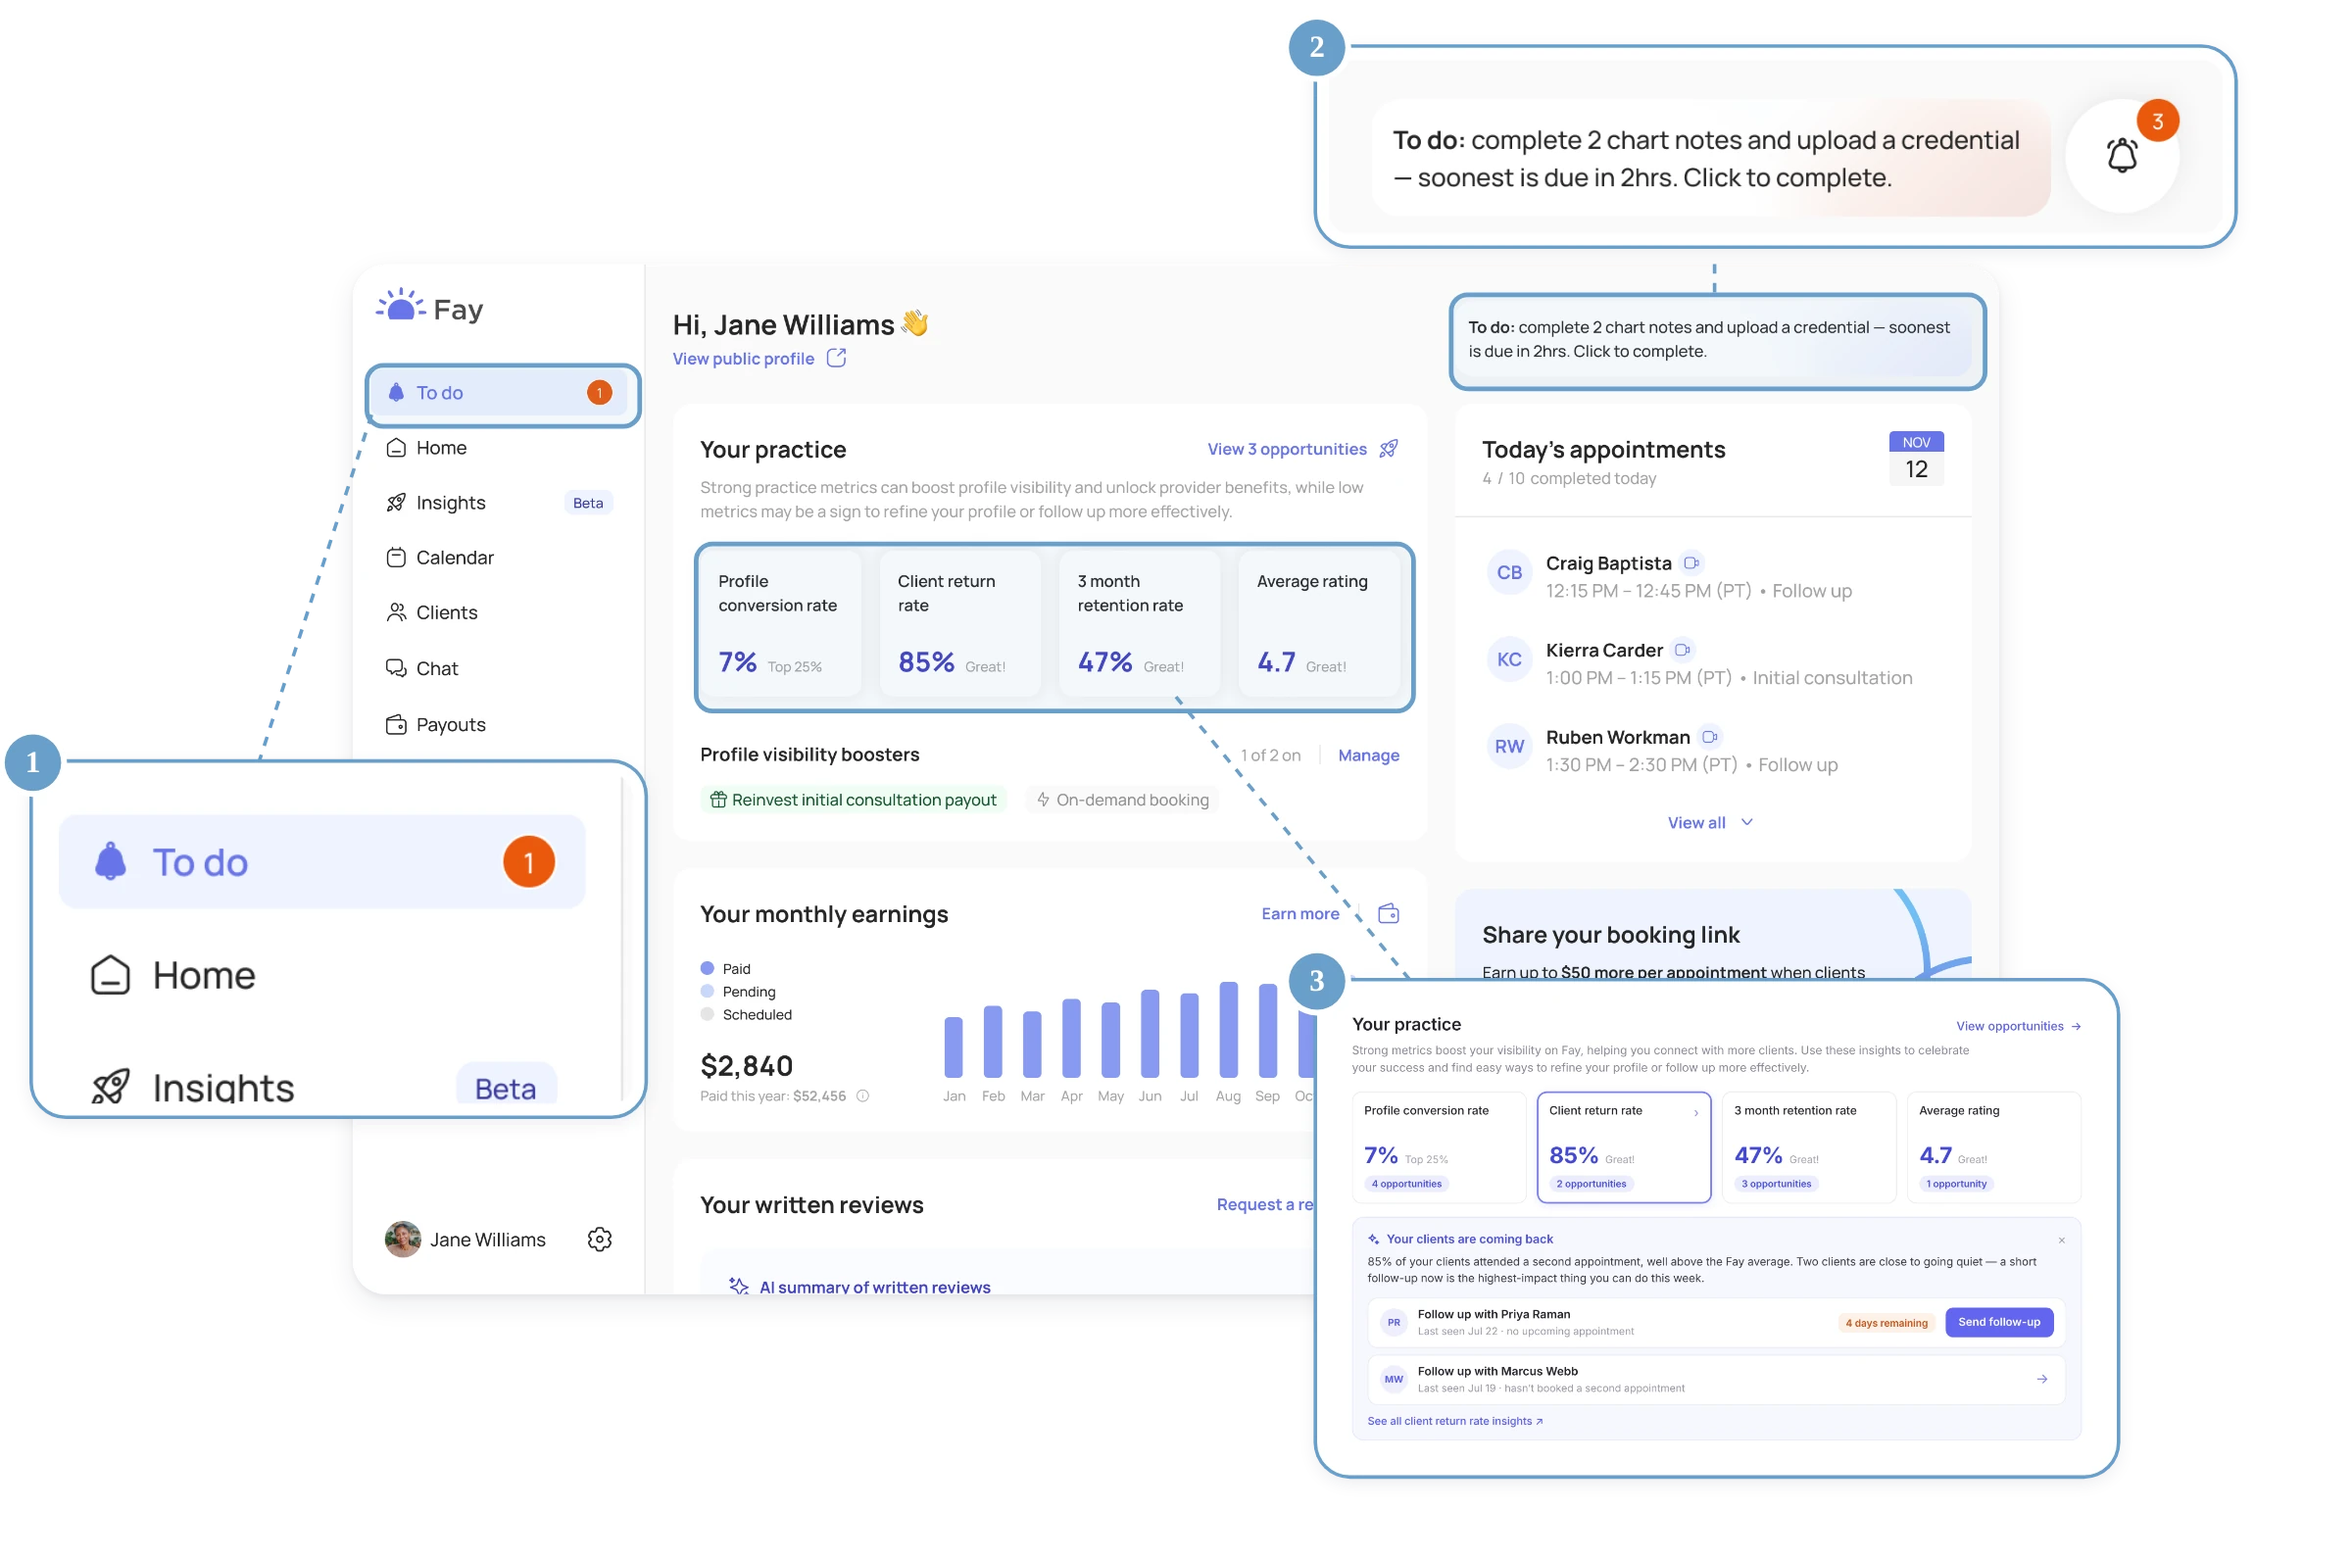
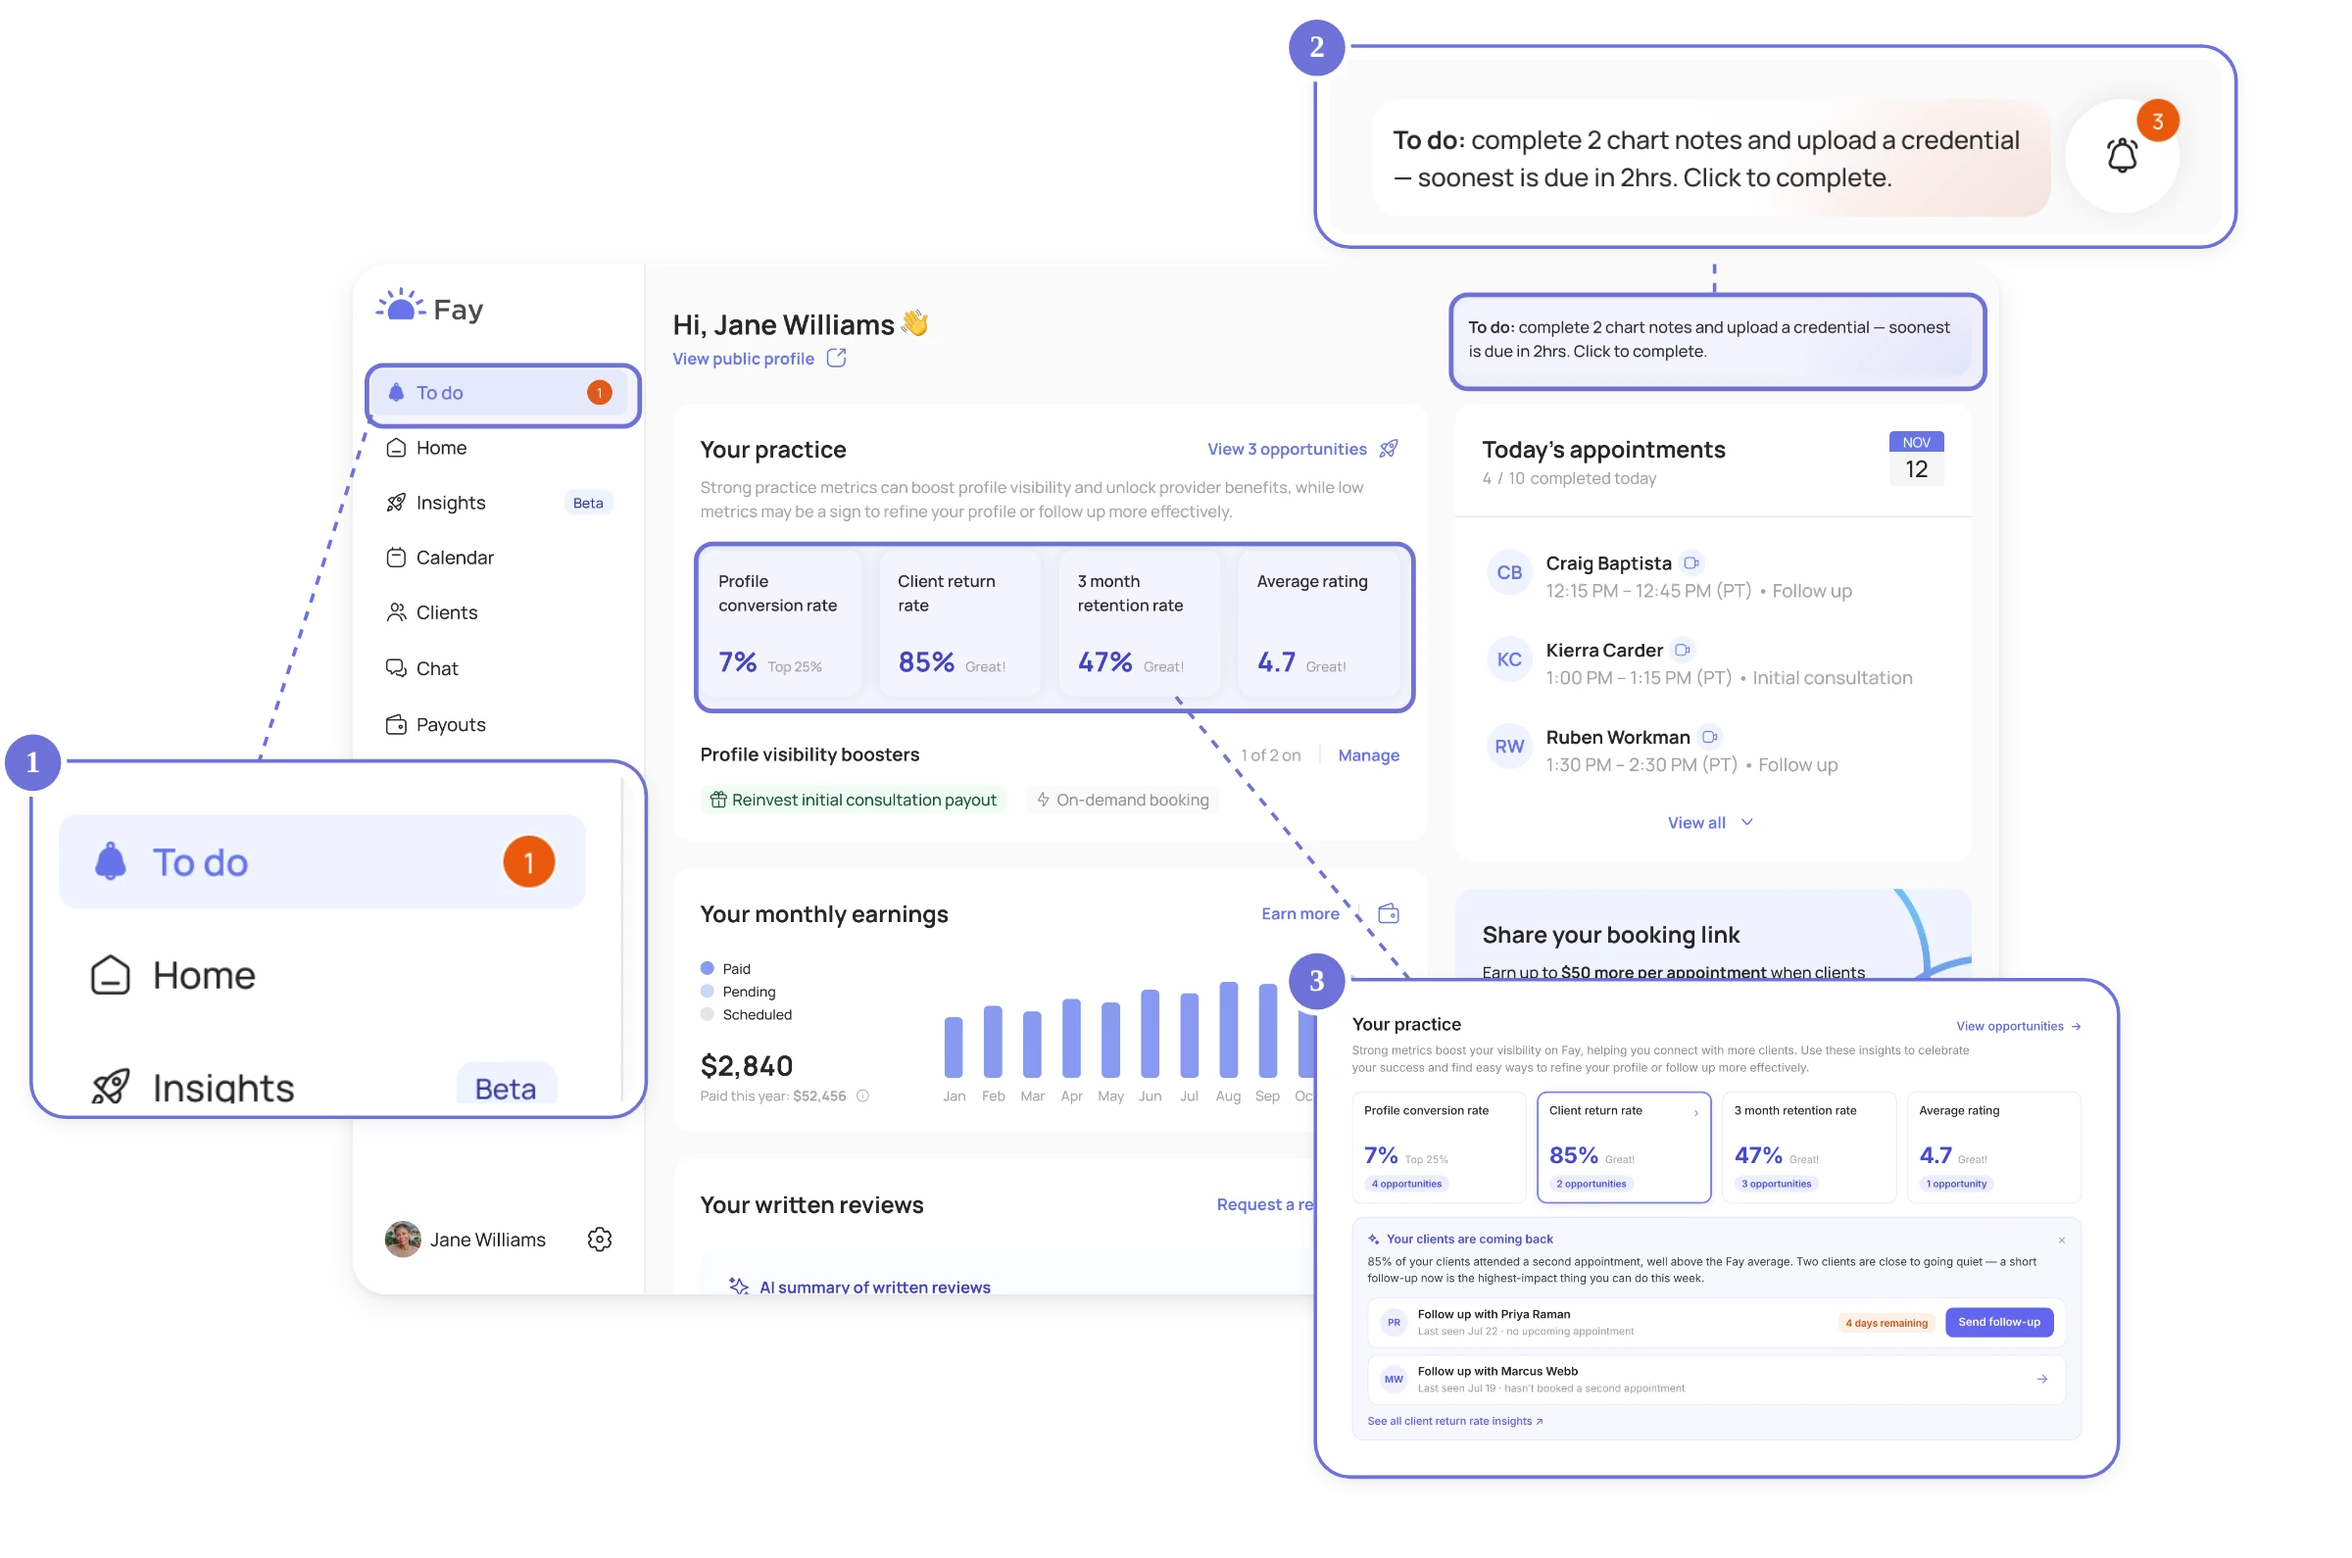
Provider: nav purple map, palette-only colours, dark mode note
Claude-Session: https://claude.ai/code/session_01C6Fxqm64jisWK6jZ32hbMF

diff --git a/provider.html b/provider.html
@@ -821,9 +821,10 @@ html.gal-open{overflow:hidden}
 .tbl-ic{width:32px;height:32px;flex:none;color:var(--ink)}   /* from the interface marks: Data and Poise */
 .td-ship{position:relative}
 .td-note{margin:var(--s-4) 0 0;max-width:22em;font-size:var(--fs-small);line-height:1.45;color:var(--ink-2)}
-.td-note b{display:block;font-weight:600;color:#1F6B3A}
-@media (min-width:1024px){ .td-note{position:absolute;right:var(--s-5);bottom:16%;margin:0;max-width:13em;padding:var(--s-3) var(--s-4);border-radius:14px;background:rgba(255,255,255,.82);-webkit-backdrop-filter:blur(10px);backdrop-filter:blur(10px);box-shadow:0 6px 20px rgba(40,60,120,.14)}
-  .td-note::before{content:"";position:absolute;right:100%;top:50%;width:var(--s-6);border-top:1.5px dashed #2E8A55} }
+.td-note b{display:block;font-weight:600;color:var(--ink)}
+@media (min-width:1024px){ .td-note{position:absolute;right:var(--s-5);bottom:16%;margin:0;max-width:13em;padding:var(--s-3) var(--s-4);border-radius:14px;background:rgba(255,255,255,.82);-webkit-backdrop-filter:blur(10px);backdrop-filter:blur(10px);box-shadow:0 6px 20px rgba(40,60,120,.14);color:#5D5970}
+  .td-note b{color:#17151F}   /* on its own white card, so the light-mode inks in both modes */
+  .td-note::before{content:"";position:absolute;right:100%;top:50%;width:var(--s-6);border-top:1.5px dashed var(--accent)} }
 .td-vid{padding:var(--s-5)}
 .td-vid video{display:block;width:100%;height:auto;border-radius:12px;box-shadow:0 1px 2px rgba(23,21,31,.06),0 10px 26px rgba(40,60,120,.18)}
 .fs-card{display:block;width:min(100%, 460px);flex:0 1 460px}   /* the card carries its own soft shadow */
@@ -832,7 +833,7 @@ html.gal-open{overflow:hidden}
 .it-map.lq,.fs-card img.lq{background:none!important}   /* cut-outs: no blurred loading preview behind their transparent parts */
 .it-key{margin:var(--s-4) 0 0;padding:0;list-style:none;counter-reset:k;display:flex;flex-wrap:wrap;gap:var(--s-2) var(--s-5);font-size:var(--fs-small);color:#5D5970}
 .it-key li{counter-increment:k;display:flex;align-items:center;gap:.5em}
-.it-key li::before{content:counter(k);display:inline-grid;place-items:center;width:1.6em;height:1.6em;border-radius:50%;background:#699FCB;color:#fff;font-size:.85em;font-weight:600}
+.it-key li::before{content:counter(k);display:inline-grid;place-items:center;width:1.6em;height:1.6em;border-radius:50%;background:#6F72D9;color:#fff;font-size:.85em;font-weight:600}
 .it{margin:0;display:flex;flex-direction:column;gap:var(--s-3)}
 .cs-gap{height:var(--s-5)}
 .st-pair{display:grid;grid-template-columns:minmax(0,1fr);gap:var(--s-5)}
@@ -1001,7 +1002,7 @@ html.gal-open{overflow:hidden}
         <h2 id="s6">I lobbied for a To-dos center, not one more to-do</h2>
         <div class="cs-body"><p>One to-do would have been the first of many: a license project had asked for a one-time modal, and expiring insurance needed a reminder too. So I lobbied to build To-dos as a whole, with a definition backed by the data. A to-do is required, with a deadline that affects care or claims, like a chart note before it locks, license details before removal or expiring insurance; it’s orange. An opportunity is a helpful next step that can wait or be dismissed, like following up with a client; it’s green.</p><p>Then I explored where they should live: as a page in the sidebar, as a line beside the bell, and right under the practice metric an opportunity could improve, like a follow-up beside client return rate.</p></div>
       </div>
[2 lines of base64/hex data omitted]
     </section>
     <section class="cs-sec grid" aria-labelledby="s7">
       <p class="cs-kicker">07<i class="dot"></i>What shipped</p>

diff --git a/goals.html b/goals.html
@@ -821,9 +821,10 @@ html.gal-open{overflow:hidden}
 .tbl-ic{width:32px;height:32px;flex:none;color:var(--ink)}   /* from the interface marks: Data and Poise */
 .td-ship{position:relative}
 .td-note{margin:var(--s-4) 0 0;max-width:22em;font-size:var(--fs-small);line-height:1.45;color:var(--ink-2)}
-.td-note b{display:block;font-weight:600;color:#1F6B3A}
-@media (min-width:1024px){ .td-note{position:absolute;right:var(--s-5);bottom:16%;margin:0;max-width:13em;padding:var(--s-3) var(--s-4);border-radius:14px;background:rgba(255,255,255,.82);-webkit-backdrop-filter:blur(10px);backdrop-filter:blur(10px);box-shadow:0 6px 20px rgba(40,60,120,.14)}
-  .td-note::before{content:"";position:absolute;right:100%;top:50%;width:var(--s-6);border-top:1.5px dashed #2E8A55} }
+.td-note b{display:block;font-weight:600;color:var(--ink)}
+@media (min-width:1024px){ .td-note{position:absolute;right:var(--s-5);bottom:16%;margin:0;max-width:13em;padding:var(--s-3) var(--s-4);border-radius:14px;background:rgba(255,255,255,.82);-webkit-backdrop-filter:blur(10px);backdrop-filter:blur(10px);box-shadow:0 6px 20px rgba(40,60,120,.14);color:#5D5970}
+  .td-note b{color:#17151F}   /* on its own white card, so the light-mode inks in both modes */
+  .td-note::before{content:"";position:absolute;right:100%;top:50%;width:var(--s-6);border-top:1.5px dashed var(--accent)} }
 .td-vid{padding:var(--s-5)}
 .td-vid video{display:block;width:100%;height:auto;border-radius:12px;box-shadow:0 1px 2px rgba(23,21,31,.06),0 10px 26px rgba(40,60,120,.18)}
 .fs-card{display:block;width:min(100%, 460px);flex:0 1 460px}   /* the card carries its own soft shadow */
@@ -832,7 +833,7 @@ html.gal-open{overflow:hidden}
 .it-map.lq,.fs-card img.lq{background:none!important}   /* cut-outs: no blurred loading preview behind their transparent parts */
 .it-key{margin:var(--s-4) 0 0;padding:0;list-style:none;counter-reset:k;display:flex;flex-wrap:wrap;gap:var(--s-2) var(--s-5);font-size:var(--fs-small);color:#5D5970}
 .it-key li{counter-increment:k;display:flex;align-items:center;gap:.5em}
-.it-key li::before{content:counter(k);display:inline-grid;place-items:center;width:1.6em;height:1.6em;border-radius:50%;background:#699FCB;color:#fff;font-size:.85em;font-weight:600}
+.it-key li::before{content:counter(k);display:inline-grid;place-items:center;width:1.6em;height:1.6em;border-radius:50%;background:#6F72D9;color:#fff;font-size:.85em;font-weight:600}
 .it{margin:0;display:flex;flex-direction:column;gap:var(--s-3)}
 .cs-gap{height:var(--s-5)}
 .st-pair{display:grid;grid-template-columns:minmax(0,1fr);gap:var(--s-5)}

diff --git a/monument.html b/monument.html
@@ -821,9 +821,10 @@ html.gal-open{overflow:hidden}
 .tbl-ic{width:32px;height:32px;flex:none;color:var(--ink)}   /* from the interface marks: Data and Poise */
 .td-ship{position:relative}
 .td-note{margin:var(--s-4) 0 0;max-width:22em;font-size:var(--fs-small);line-height:1.45;color:var(--ink-2)}
-.td-note b{display:block;font-weight:600;color:#1F6B3A}
-@media (min-width:1024px){ .td-note{position:absolute;right:var(--s-5);bottom:16%;margin:0;max-width:13em;padding:var(--s-3) var(--s-4);border-radius:14px;background:rgba(255,255,255,.82);-webkit-backdrop-filter:blur(10px);backdrop-filter:blur(10px);box-shadow:0 6px 20px rgba(40,60,120,.14)}
-  .td-note::before{content:"";position:absolute;right:100%;top:50%;width:var(--s-6);border-top:1.5px dashed #2E8A55} }
+.td-note b{display:block;font-weight:600;color:var(--ink)}
+@media (min-width:1024px){ .td-note{position:absolute;right:var(--s-5);bottom:16%;margin:0;max-width:13em;padding:var(--s-3) var(--s-4);border-radius:14px;background:rgba(255,255,255,.82);-webkit-backdrop-filter:blur(10px);backdrop-filter:blur(10px);box-shadow:0 6px 20px rgba(40,60,120,.14);color:#5D5970}
+  .td-note b{color:#17151F}   /* on its own white card, so the light-mode inks in both modes */
+  .td-note::before{content:"";position:absolute;right:100%;top:50%;width:var(--s-6);border-top:1.5px dashed var(--accent)} }
 .td-vid{padding:var(--s-5)}
 .td-vid video{display:block;width:100%;height:auto;border-radius:12px;box-shadow:0 1px 2px rgba(23,21,31,.06),0 10px 26px rgba(40,60,120,.18)}
 .fs-card{display:block;width:min(100%, 460px);flex:0 1 460px}   /* the card carries its own soft shadow */
@@ -832,7 +833,7 @@ html.gal-open{overflow:hidden}
 .it-map.lq,.fs-card img.lq{background:none!important}   /* cut-outs: no blurred loading preview behind their transparent parts */
 .it-key{margin:var(--s-4) 0 0;padding:0;list-style:none;counter-reset:k;display:flex;flex-wrap:wrap;gap:var(--s-2) var(--s-5);font-size:var(--fs-small);color:#5D5970}
 .it-key li{counter-increment:k;display:flex;align-items:center;gap:.5em}
-.it-key li::before{content:counter(k);display:inline-grid;place-items:center;width:1.6em;height:1.6em;border-radius:50%;background:#699FCB;color:#fff;font-size:.85em;font-weight:600}
+.it-key li::before{content:counter(k);display:inline-grid;place-items:center;width:1.6em;height:1.6em;border-radius:50%;background:#6F72D9;color:#fff;font-size:.85em;font-weight:600}
 .it{margin:0;display:flex;flex-direction:column;gap:var(--s-3)}
 .cs-gap{height:var(--s-5)}
 .st-pair{display:grid;grid-template-columns:minmax(0,1fr);gap:var(--s-5)}
